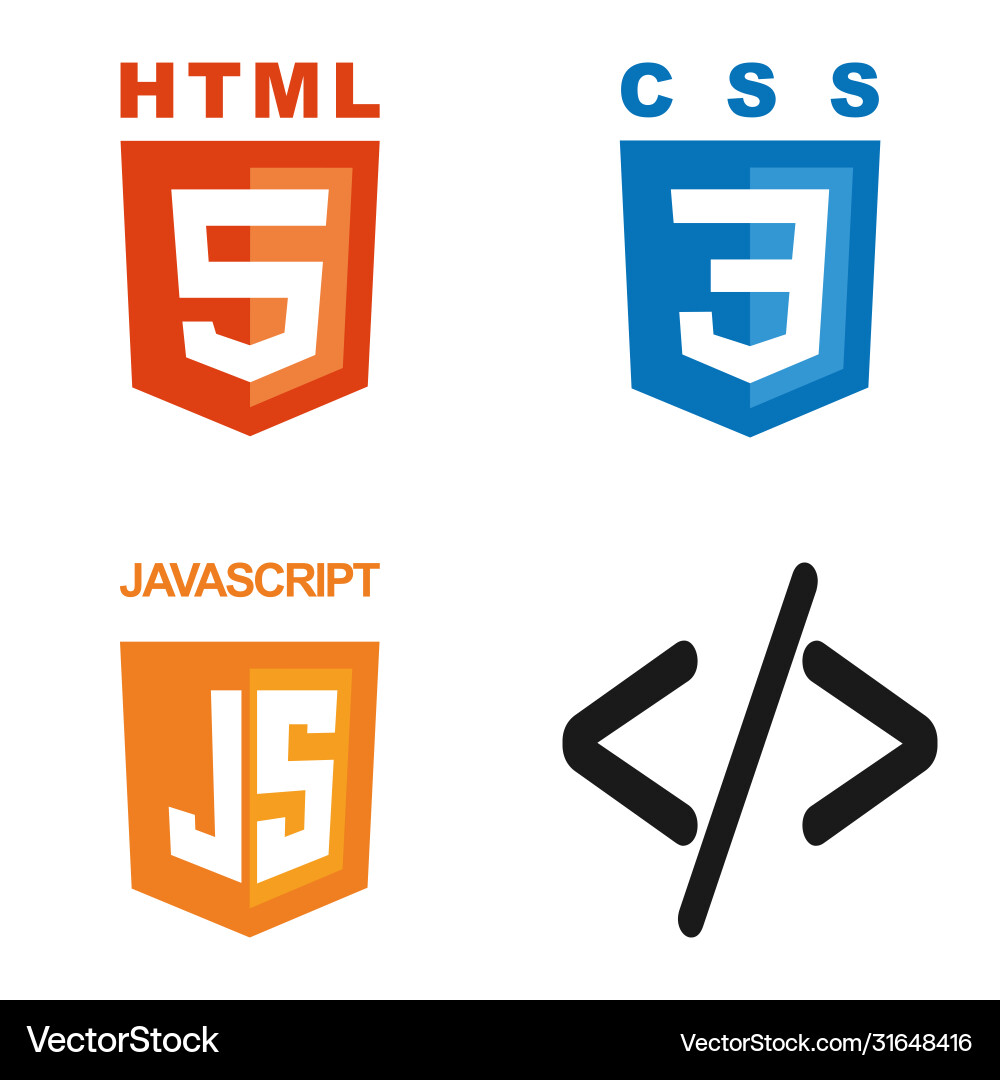
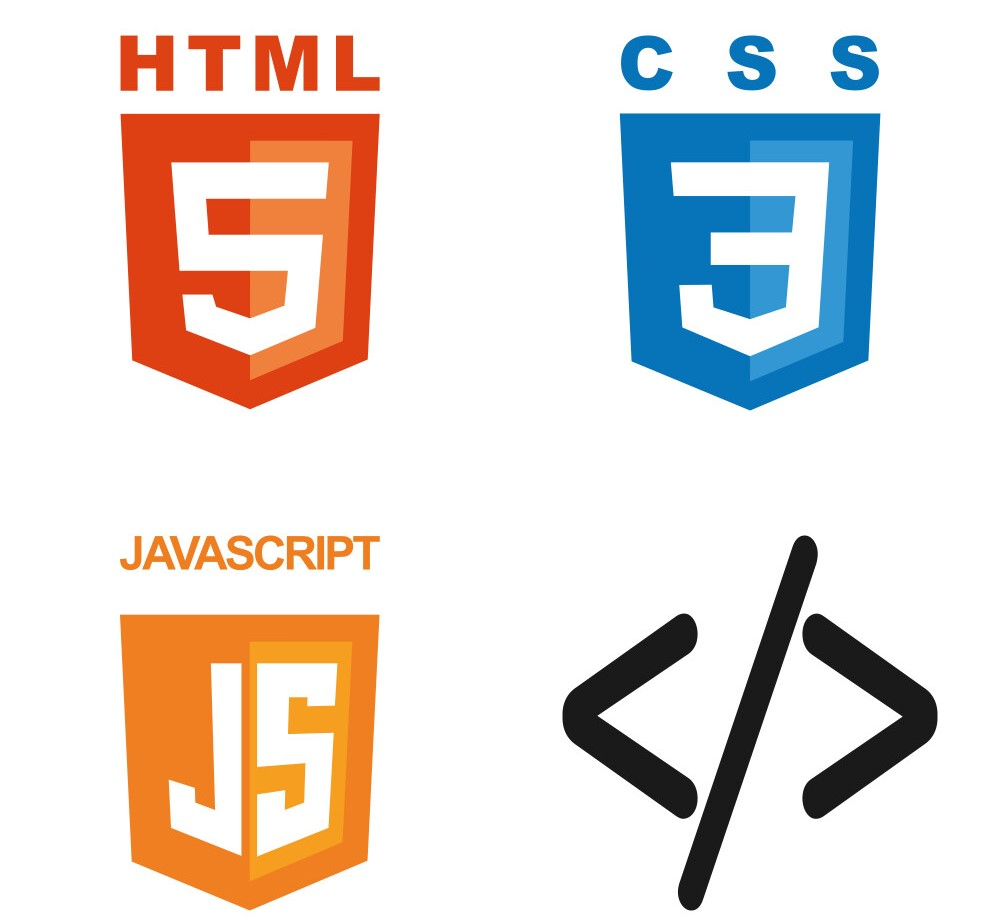
skills

diff --git a/skills.html b/skills.html
@@ -3,7 +3,7 @@
 <head>
     <meta charset="UTF-8">
     <meta name="viewport" content="width=device-width, initial-scale=1.0">
-    <title>Home</title>
+    <title>Skills</title>
     <link rel="stylesheet" href="style.css">
 </head>
 <body>
@@ -22,23 +22,24 @@
                 </ul>
             </nav>
         </header>
-        <main class="box">
-            <div class="left-side">
-                <h3>Hey There!</h3>
-                <h3>I am Yolanda Limani</h3>
-                <h3>Software Developer & UX Designer</h3>
-                <p>
-                    Progress driven person who enjoys spending
-                    free time increasing knowledge of Web Development
-                    building new and challenging projects.
-                </p>
-                <div class="button">
-                    <a href="#">Resume</a>
-                    <a href="#">Hire me</a>
+        <main>
+            <div class="skills-wrap">
+                <div class="skills-info">
+                    <h3>Front-end</h3>
+                    <img src="assets/set-4-icons-html-css-js-code-vector-31648416.jpg">
                 </div>
-            </div>
-            <div class="right-side">
-                <img src="assets/1949634-your-next-career-move-as-a-software-developer.png" alt="main-image">
+                <div class="skills-info">
+                    <h3>Backend</h3>
+                    <img src="assets/database-mysql-icon-462x512-6itsq0zm.png">
+                </div>
+                <div class="skills-info">
+                    <h3>Front-end</h3>
+                    <img src="assets/1_PvqHkumoeOX3ZXuwjJ-whg.png">
+                </div>
+                <div class="skills-info">
+                    <h3>Design</h3>
+                    <img src="assets/360_F_503672258_xuK0AX2sDx3jfavD8P4AXTXtXQyyKrfQ.jpg">
+                </div>
             </div>
         </main>
         <footer>

diff --git a/about.html b/about.html
@@ -16,7 +16,7 @@
                 <ul>
                     <li><a href="index.html">Home</a></li>
                     <li><a href="about.html">About</a></li>
-                    <li><a href="#">Skills</a></li>
+                    <li><a href="skills.html">Skills</a></li>
                     <li><a href="#">Projects</a></li>
                     <li><a href="#">Contact</a></li>
                 </ul>

diff --git a/style.css b/style.css
@@ -116,3 +116,12 @@ footer hr{
 main{
     margin-top: 5%;
 }
+.skills-info img{
+    height: 100px;
+    width: 100px;
+    object-fit: contain;
+}
+.skills-wrap{
+    display: flex;
+    gap: 150px;
+}
